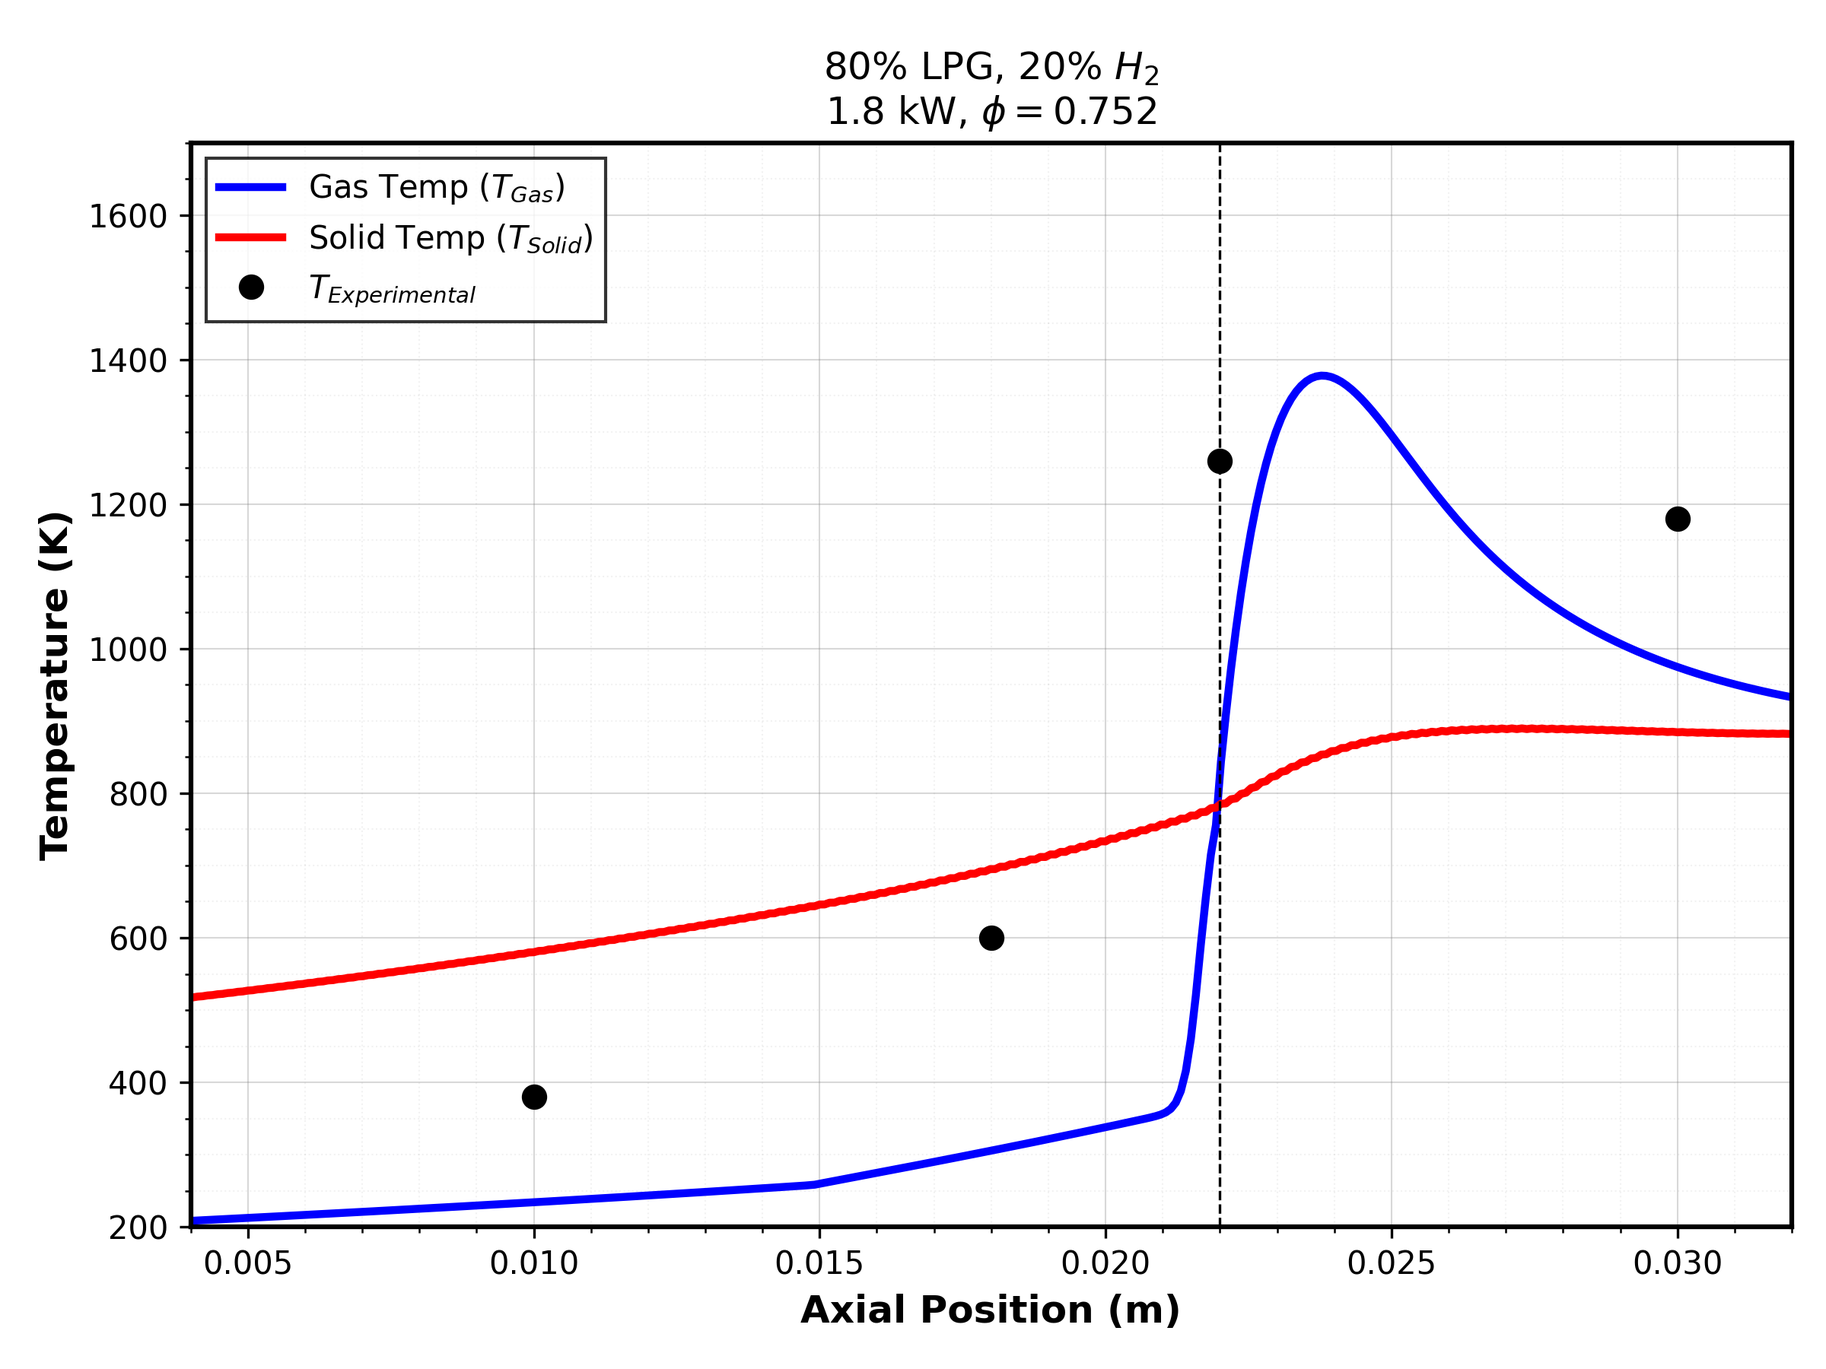
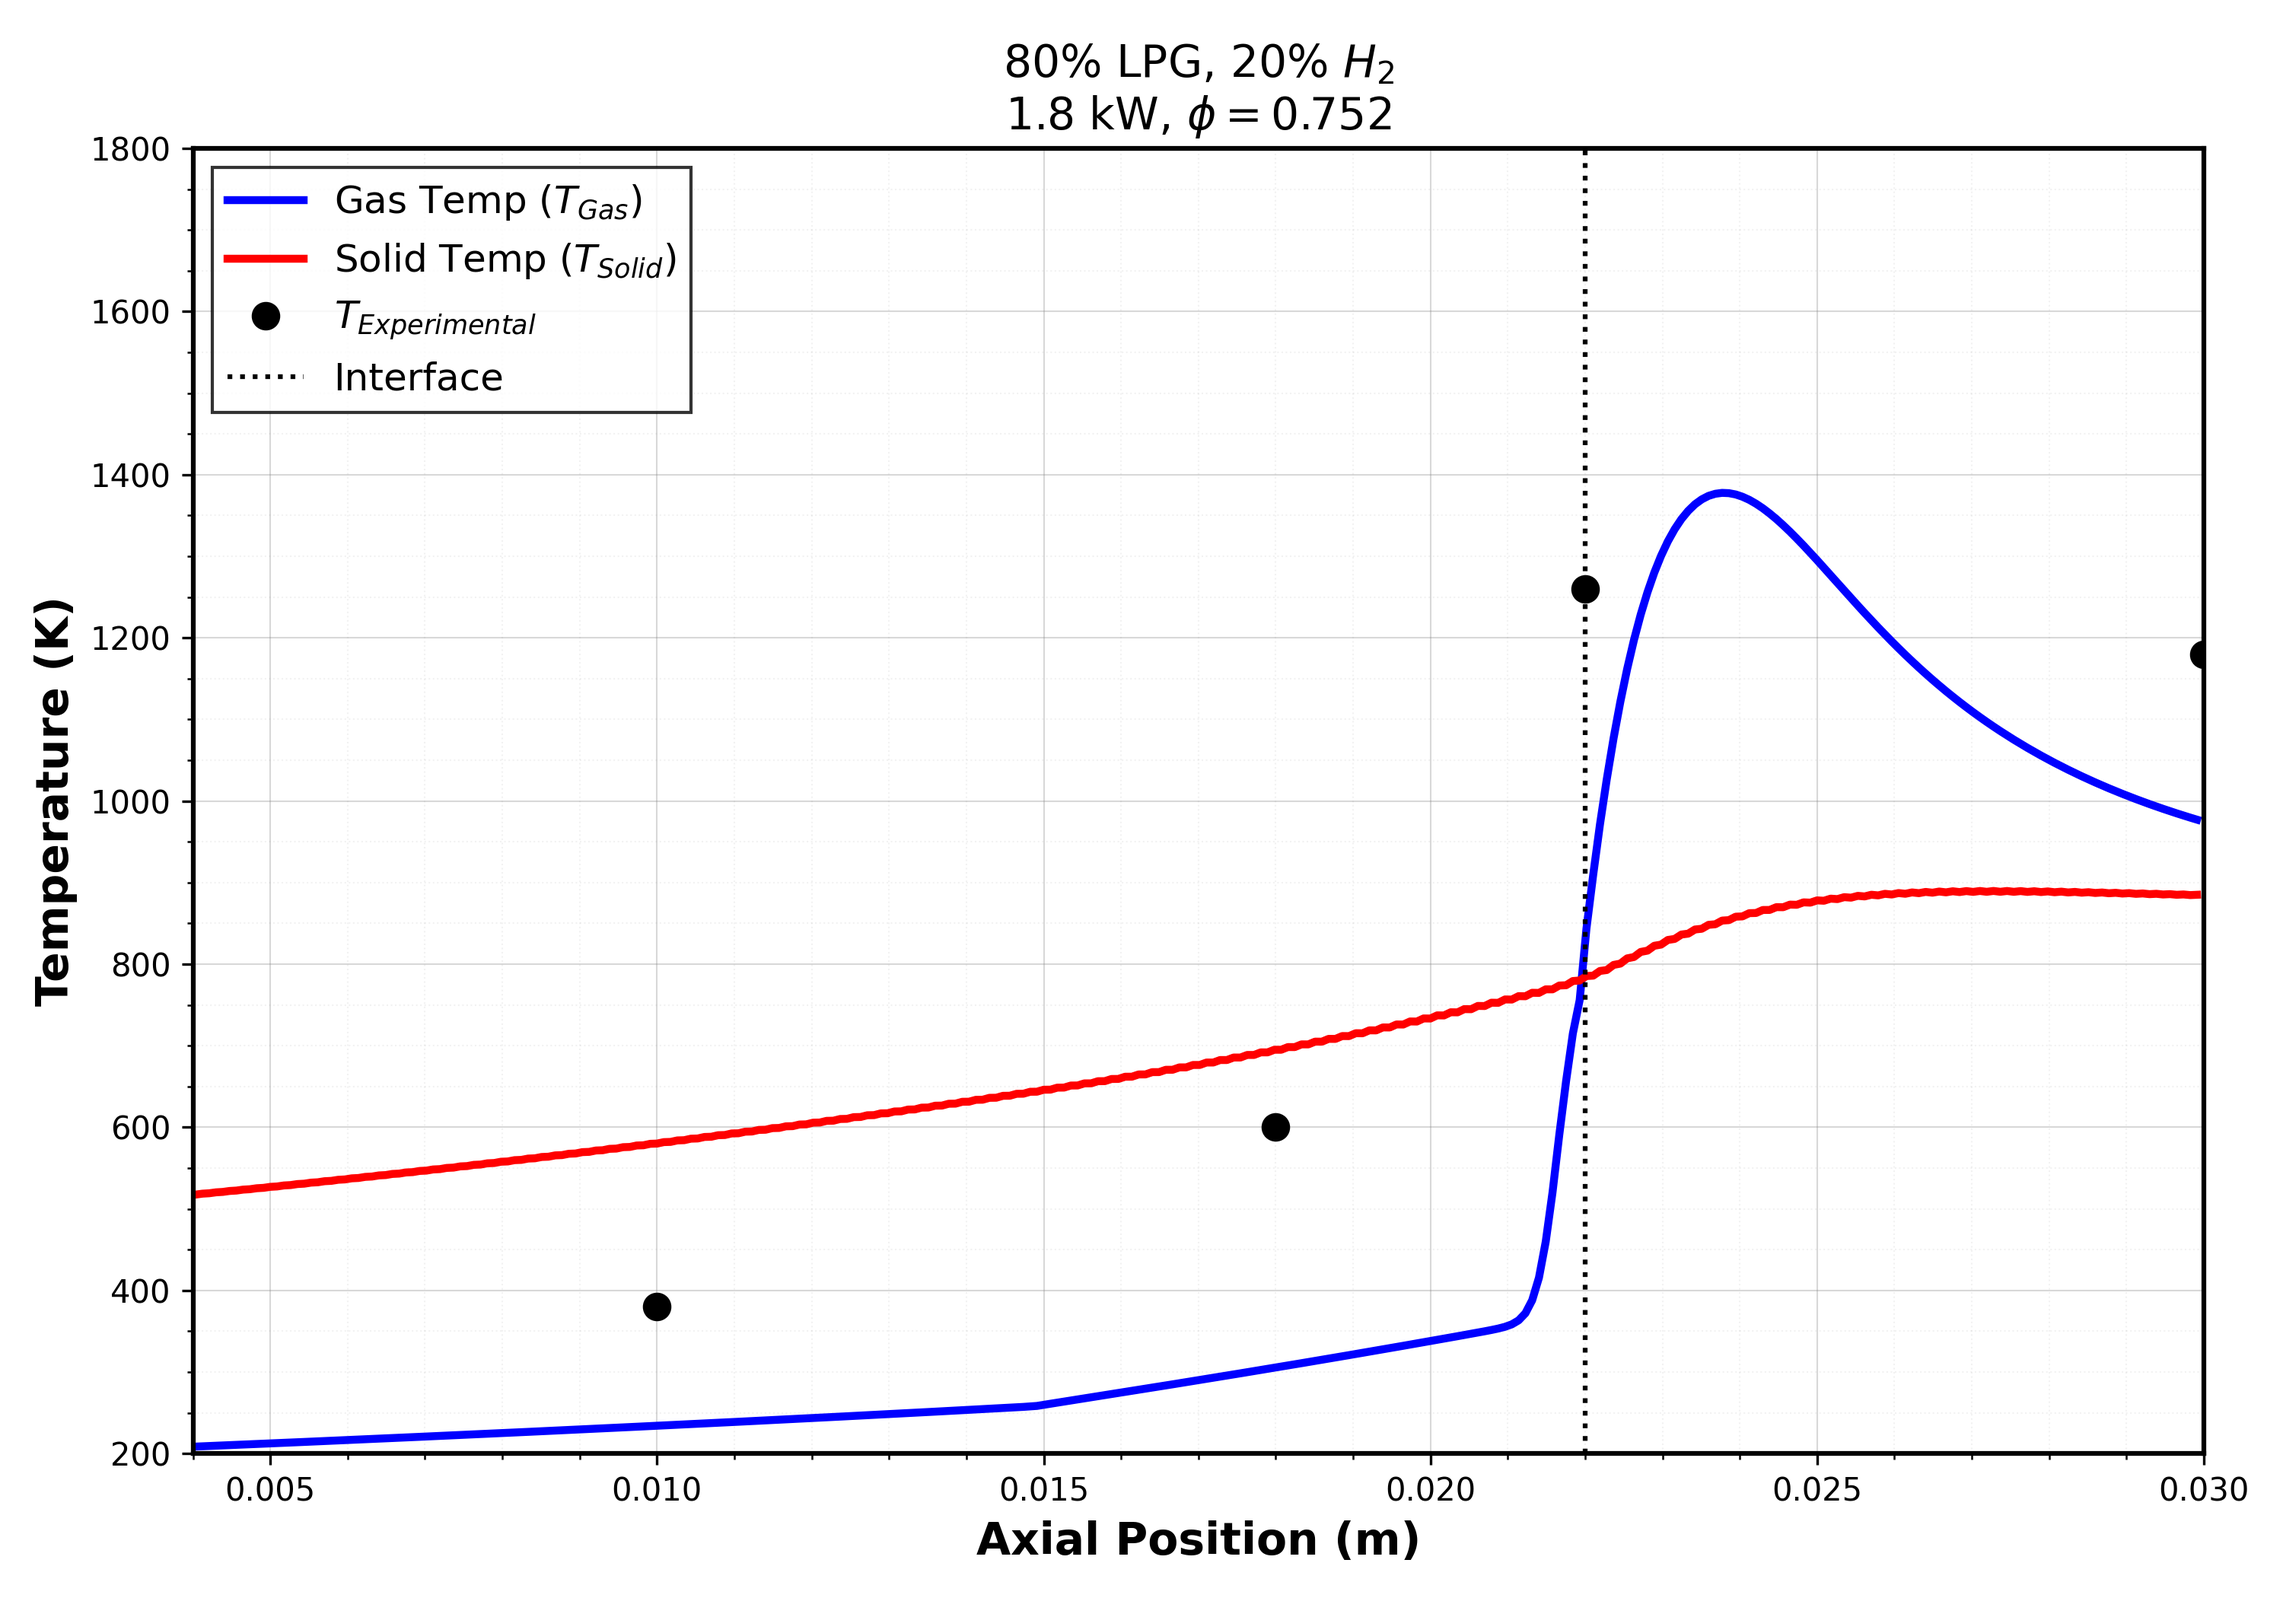
final

Changed region(s): [[0.0, 0.0311, 1.0, 0.9956], [0.2812, 0.7778, 0.3125, 0.84], [0.8438, 0.4356, 0.875, 0.4667]]

diff --git a/src/parametric_study.py b/src/parametric_study.py
@@ -1,0 +1,87 @@
+import numpy as np
+import matplotlib.pyplot as plt
+from simulation import get_flame, ThreeStageSolver
+
+def plot_sweep(results, param_name, filename):
+    plt.figure(figsize=(10, 7))
+    
+    # Distinct colors for clarity
+    colors = ['#1f77b4', '#ff7f0e', '#2ca02c', '#d62728']
+    
+    for i, (val, z, Tg, Ts) in enumerate(results):
+        # Crop to relevant area for plotting
+        mask = z <= 0.03
+        z_plot = z[mask]
+        Tg_plot = Tg[mask]
+        Ts_plot = Ts[mask]
+        
+        c = colors[i % len(colors)]
+        
+        # Plot Gas (Solid Line)
+        plt.plot(z_plot, Tg_plot, color=c, linestyle='-', linewidth=2, 
+                 label=f'Gas ({param_name}={val})')
+        # Plot Solid (Dashed Line)
+        plt.plot(z_plot, Ts_plot, color=c, linestyle='--', linewidth=2, alpha=0.8,
+                 label=f'Solid ({param_name}={val})')
+
+    # Interface Line
+    plt.axvline(x=0.022, color='k', linestyle=':', linewidth=1.2, label='Interface')
+
+    plt.xlabel('Axial Position (m)', fontsize=12, fontweight='bold')
+    plt.ylabel('Temperature (K)', fontsize=12, fontweight='bold')
+    plt.title(f'Effect of {param_name} on Temperature Distribution', fontsize=14)
+    
+    # Place legend outside if it gets too crowded, or upper left
+    plt.legend(loc='upper left', frameon=True, fancybox=False, fontsize=10, ncol=2)
+    
+    plt.grid(True, which='both', linestyle='--', alpha=0.3)
+    plt.xlim(0.004, 0.035)
+    plt.ylim(200, 1800)
+    
+    plt.tight_layout()
+    print(f"Saving sweep plot to {filename}...")
+    plt.savefig(filename, dpi=300)
+
+def run_parametric_study():
+    print("Initializing Chemistry...")
+    flame_ref = get_flame()
+    
+    # Baseline Design: [dp1, eps1, dp2, eps2, dp3, eps3]
+    # Indices: 0=Pre_dp, 1=Pre_eps, 2=Arr_dp, 3=Arr_eps, 4=Rad_dp, 5=Rad_eps
+    base_design = [1.3, 0.4, 0.6, 0.4, 5.0, 0.90] 
+
+    # --- STUDY 1: PORE DIAMETER (Stage 3) ---
+    print("\n--- Running Pore Diameter Sweep ---")
+    pore_sizes = [4.0, 5.0, 6.0]
+    results_dp = []
+    
+    for dp in pore_sizes:
+        print(f"  Simulating dp3 = {dp} mm...")
+        design = base_design.copy()
+        design[4] = dp # Update Stage 3 Pore Diameter
+        
+        solver = ThreeStageSolver(None, design, flame_ref, None)
+        eff, Ts, Tg = solver.solve()
+        results_dp.append((dp, solver.z, Tg, Ts))
+        
+    plot_sweep(results_dp, "Pore Size (mm)", "effect_of_pore_diameter.png")
+
+    # --- STUDY 2: POROSITY (Stage 3) ---
+    print("\n--- Running Porosity Sweep ---")
+    porosities = [0.80, 0.85, 0.90]
+    results_eps = []
+    
+    for eps in porosities:
+        print(f"  Simulating epsilon3 = {eps}...")
+        design = base_design.copy()
+        design[5] = eps # Update Stage 3 Porosity
+        
+        solver = ThreeStageSolver(None, design, flame_ref, None)
+        eff, Ts, Tg = solver.solve()
+        results_eps.append((eps, solver.z, Tg, Ts))
+        
+    plot_sweep(results_eps, "Porosity", "effect_of_porosity.png")
+    print("\nStudy Complete.")
+
+if __name__ == "__main__":
+    run_parametric_study()

diff --git a/src/main.py b/src/main.py
@@ -3,12 +3,13 @@ import matplotlib.pyplot as plt
 from simulation import get_flame, ThreeStageSolver
 
 def plot_symposia_results(z, Tg, Ts, filename='temperature_profile.png'):
-    mask = z <= 0.032
+    # Plot full domain to see exit behavior
+    mask = z <= 0.03
     z = z[mask]
     Tg = Tg[mask]
     Ts = Ts[mask]
     
-    plt.figure(figsize=(8, 6))
+    plt.figure(figsize=(10, 7))
     
     # Plot lines
     plt.plot(z, Tg, 'b-', linewidth=2.5, label='Gas Temp ($T_{Gas}$)')
@@ -17,18 +18,21 @@ def plot_symposia_results(z, Tg, Ts, filename='temperature_profile.png'):
     # Experimental Dots
     exp_x = [0.01, 0.018, 0.022, 0.03]
     exp_y = [380, 600, 1260, 1180]
-    plt.plot(exp_x, exp_y, 'ko', markersize=7, label='$T_{Experimental}$')
+    plt.plot(exp_x, exp_y, 'ko', markersize=8, label='$T_{Experimental}$')
 
-    plt.axvline(x=0.022, color='k', linestyle='--', linewidth=0.8)
+    # Interface Line
+    plt.axvline(x=0.022, color='k', linestyle=':', linewidth=1.5, label='Interface')
 
-    plt.xlabel('Axial Position (m)', fontsize=12, fontweight='bold')
-    plt.ylabel('Temperature (K)', fontsize=12, fontweight='bold')
+    plt.xlabel('Axial Position (m)', fontsize=14, fontweight='bold')
+    plt.ylabel('Temperature (K)', fontsize=14, fontweight='bold')
     
-    plt.title(r"80% LPG, 20% $H_2$" + "\n" + r"1.8 kW, $\phi=0.752$", fontsize=12)
+    plt.title(r"80% LPG, 20% $H_2$" + "\n" + r"1.8 kW, $\phi=0.752$", fontsize=14)
     
-    plt.legend(loc='upper left', frameon=True, edgecolor='black', fancybox=False)
-    plt.xlim(0.004, 0.032) 
-    plt.ylim(200, 1700)   
+    plt.legend(loc='upper left', frameon=True, edgecolor='black', fancybox=False, fontsize=12)
+    
+    # Full domain view
+    plt.xlim(0.004, 0.03) 
+    plt.ylim(200, 1800)   
     
     plt.minorticks_on()
     plt.grid(which='major', linestyle='-', linewidth='0.5', color='gray', alpha=0.3)
@@ -44,8 +48,10 @@ def plot_symposia_results(z, Tg, Ts, filename='temperature_profile.png'):
 
 def run_simulation():
     flame_ref = get_flame()
+    # Design: [dp1, eps1, dp2, eps2, dp3, eps3]
     design = [1.3, 0.4, 0.6, 0.4, 5.0, 0.9]
     
+    # Note: Passing None for z_grid and Tg_ref as solver generates its own
     solver = ThreeStageSolver(None, design, flame_ref, None)
     eff, Ts, Tg = solver.solve()
     
